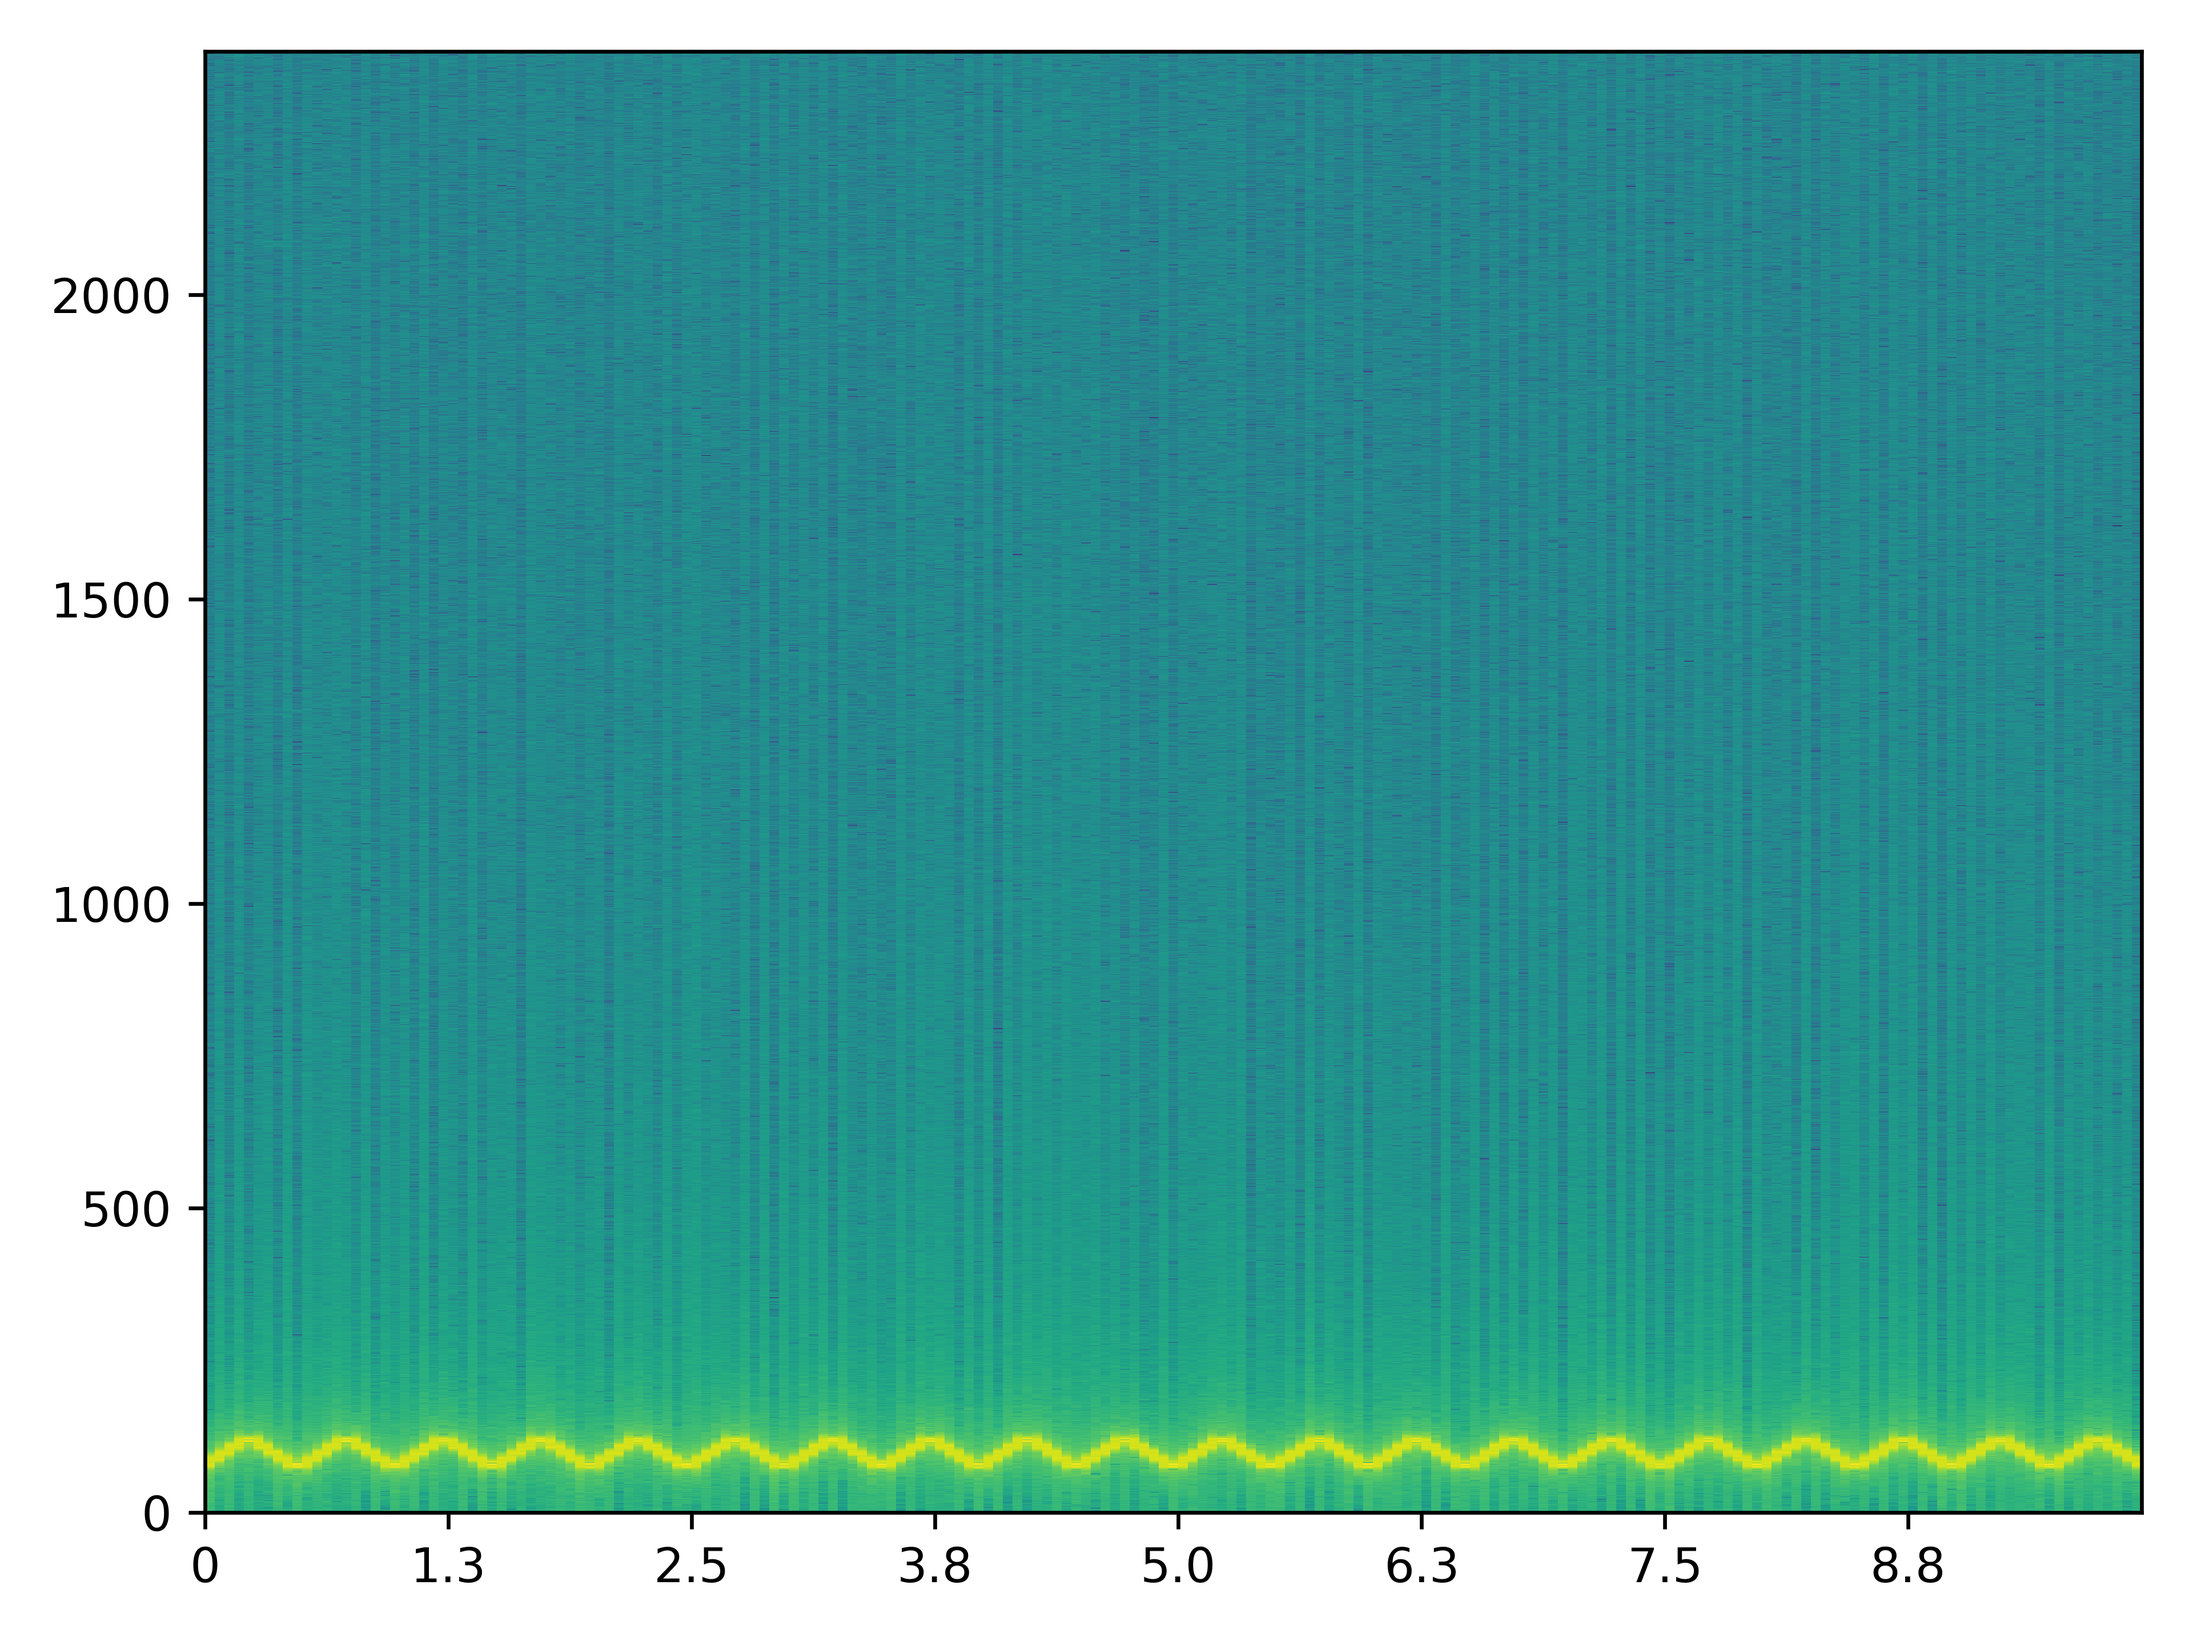
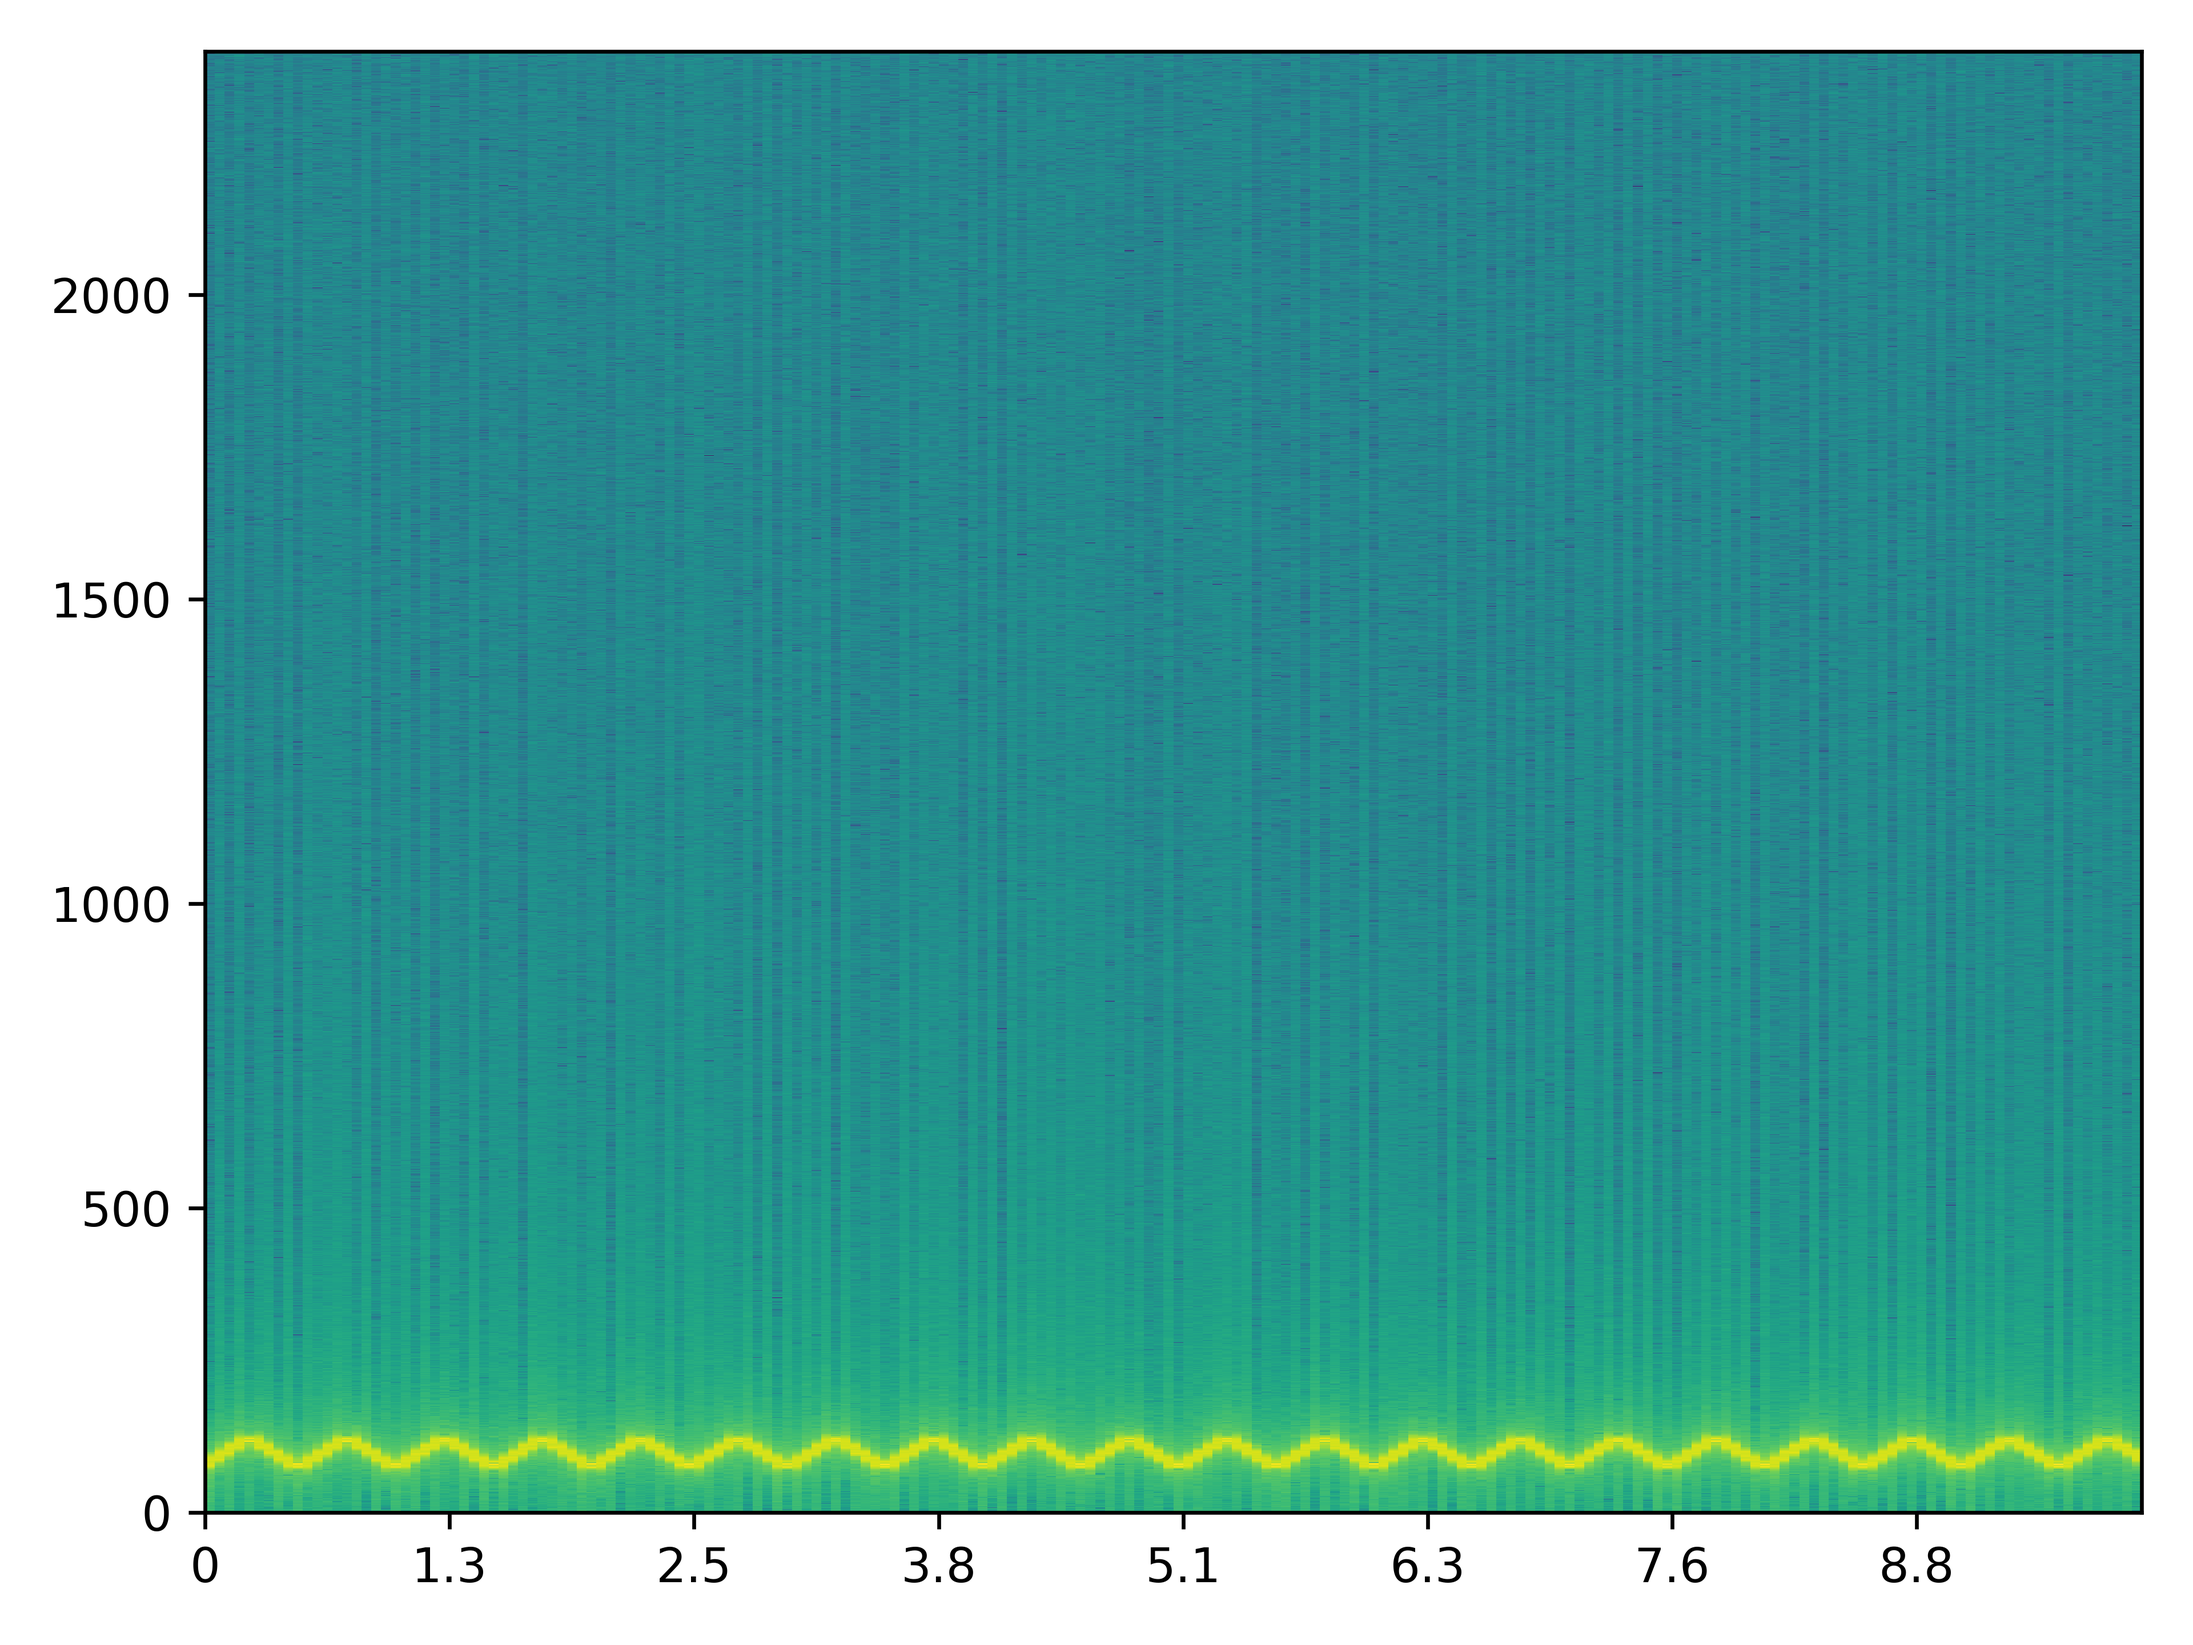
Fix as_strided windowed view assuming array was contiguous
It seems two-channel wav interleaves the two channels in one array
This was effectively cutting the file in half and duplicating the samples in the remaining half

diff --git a/Lab/Lab 4 spectrogram.py b/Lab/Lab 4 spectrogram.py
@@ -11,10 +11,6 @@ from savefig import savefig
 # they cause an error in VSCode and take extremely long to load in the browser
 savefig = partial(savefig, svg=False)
 
-def square(time):
-    _, whole = np.modf(time)
-    return whole % 2
-
 def triangle(time):
     fractional, _ = np.modf(time + 0.5)
     return np.abs(1 - fractional * 2)
@@ -35,17 +31,28 @@ def generate_test_signal():
     signal = np.sin(2 * np.pi * warped_time) * amplitude + rng.random(size=time.shape) * (amplitude / 30)
     wavfile.write(TEST_FILE, rate=sample_rate, data=signal.astype(np.int16))
 
+def windowed_view(array: np.ndarray, window_size: int, window_stride: int) -> np.ndarray:
+    assert array.shape == (array.size,)
+    assert len(array.strides) == 1
+    # offset not guaranteed to equal array.itemsize
+    # for the vowels recording, the two channels are interleaved
+    offset = array.strides[0]
+    total_windows = (array.size - window_size + 1) // window_stride
+    shape = (total_windows, window_size)
+    strides = (window_stride * offset, offset)
+    return np.lib.stride_tricks.as_strided(array, shape=shape, strides=strides, writeable=False)
+
 def generate_spectrogram(file: Path):
     sampling_rate, sound = wavfile.read(file)
-#    plt.specgram(sound, Fs=sampling_rate)
-#    plt.show()
-#    print(sampling_rate, sound.size, sound.size // 100)
-    window_size = sound.size // 100
-    if not sound.shape == (sound.size,):
-        assert sound.shape == (sound.size // 2, 2)
+
+    if sound.shape == (sound.size // 2, 2):
         sound = sound[:, 0]
-    size = sound.itemsize
-    windows = np.lib.stride_tricks.as_strided(sound, shape=(sound.size // window_size * 2 - 1, window_size), strides=(window_size // 2 * size, size), writeable=False)
+    else:
+        assert sound.shape == (sound.size,)
+
+    window_size = sound.size // 100
+    window_stride = window_size // 2
+    windows = windowed_view(sound, window_size, window_stride)
     ffts = np.zeros(shape=(windows.shape[0], windows.shape[1] // 2))
     for i, window in enumerate(windows):
         fft = np.fft.fft(window)
